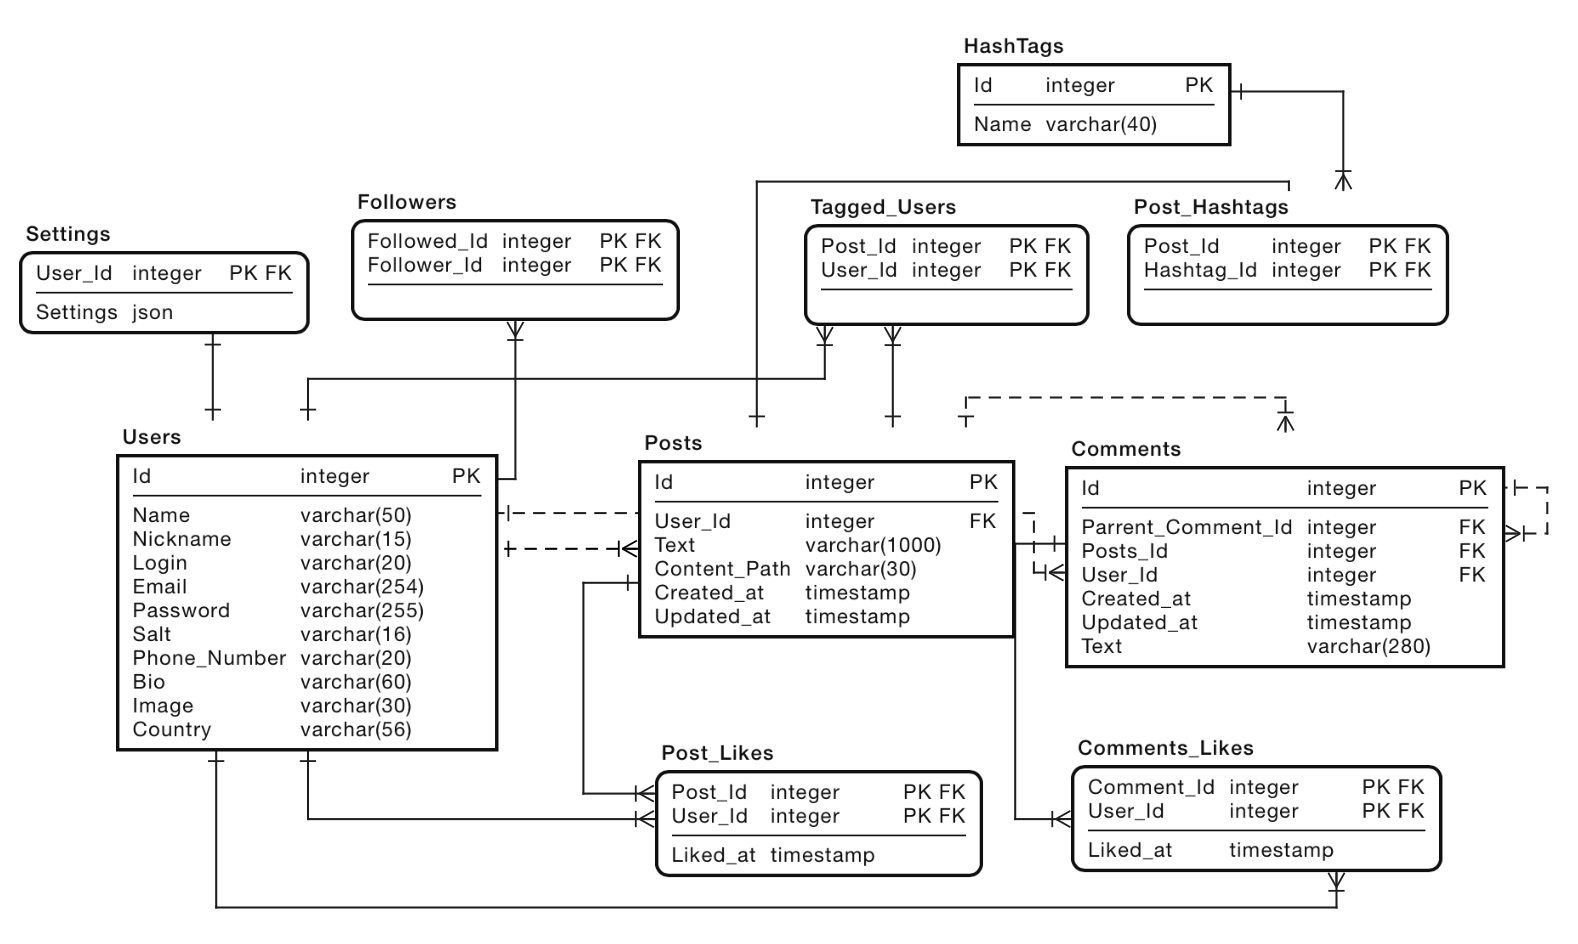
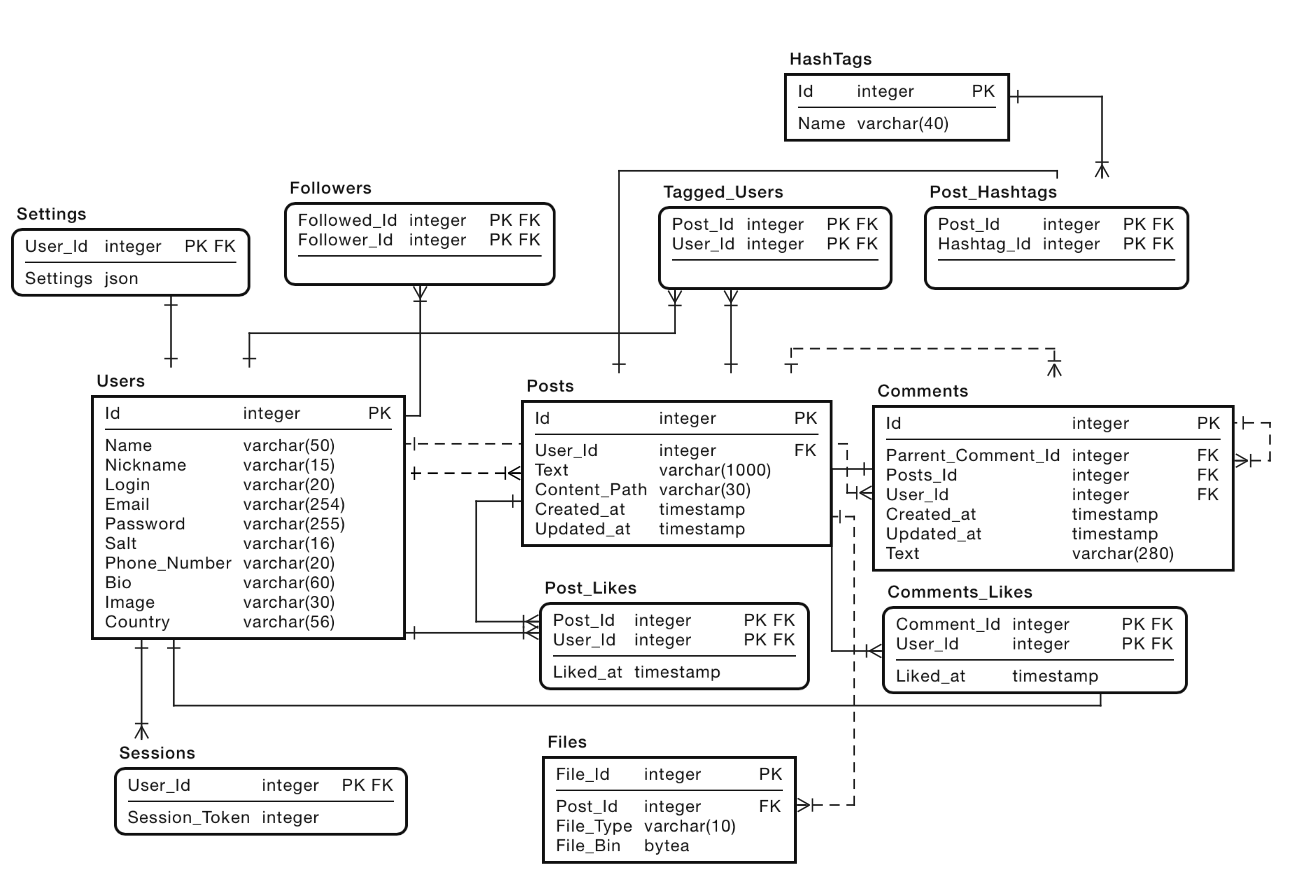
#5 logical db scheme update

Changed region(s): [[0.0, 0.0303, 0.9877, 0.9708]]

diff --git a/README.md b/README.md
@@ -253,12 +253,6 @@ Istio предлагает комплексное решение для упра
 
 ## 5. Логическая схема БД <a name="5"></a>
 
-### Структура хранения данных
-В проекте будет использоваться 3 разных вида хранилища данных. Информация о сессиях пользователей будет располагаться в key-value 
-нереляционной СУБД, "файловые" данные (фотографии, видео) - в CDN, вся остальная основная информация будет находиться в реляционной СУБД, для 
-которой необходимо спроектировать схему.
-
-### Логическая схема реляционной БД
 ![Логическая схема БД](schema.png)
 
 ### Размеры данных в таблицах
@@ -266,20 +260,21 @@ Istio предлагает комплексное решение для упра
 Тогда вес varchar(n) - 2*n байт, integer - 4 байта, timestamp ~ 8 байт, bool - 1 байт. Размер json файла с настройками аккаунта пользователя
 можно оценить примерно в 300 байт. 
 #### Оценим максимальный и средний вес одной записи для каждой таблицы:
-| Название таблицы  | Максимальный вес записи, байт | Средний, байт |
-|-------------------|-------------------------------|---------------| 
-| Users             | 1556                          | 800           |
-| Settings          | 304                           | 304           |
-| Followers         | 8                             | 8             |
-| Tagged_Users      | 8                             | 8             |
-| Post_Hashtags     | 8                             | 8             |
-| Hashtags          | 84                            | 40            |
-| Posts             | 2084                          | 500           |
-| Comments          | 592                           | 150           |
-| Post_Likes        | 16                            | 16            |
-| Comments_Likes    | 16                            | 16            |
+| Название таблицы | Максимальный вес записи, байт | Средний, байт |
+|------------------|-------------------------------|---------------| 
+| Users            | 1556                          | 800           |
+| Settings         | 304                           | 304           |
+| Followers        | 8                             | 8             |
+| Tagged_Users     | 8                             | 8             |
+| Post_Hashtags    | 8                             | 8             |
+| Hashtags         | 84                            | 40            |
+| Posts            | 2084                          | 500           |
+| Comments         | 592                           | 150           |
+| Post_Likes       | 16                            | 16            |
+| Comments_Likes   | 16                            | 16            |
+| Sessions         | 16                            | 16            |
+| Files            | 50 Мб (файл) + 28 байт        | 20 Мб         |
 
-- Запись одной сессии в key-value хранилище ~ 150 байт.  
 - Средний размер поста с фото - 500 Кб, с видео - 50 Мб (для CDN)
 
 ### Расчёт нагрузки на чтение и запись
